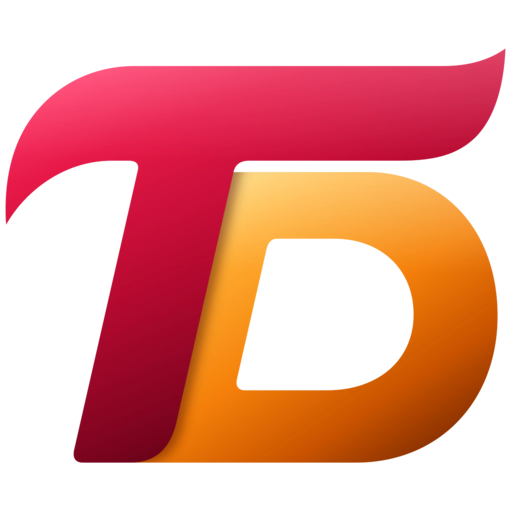
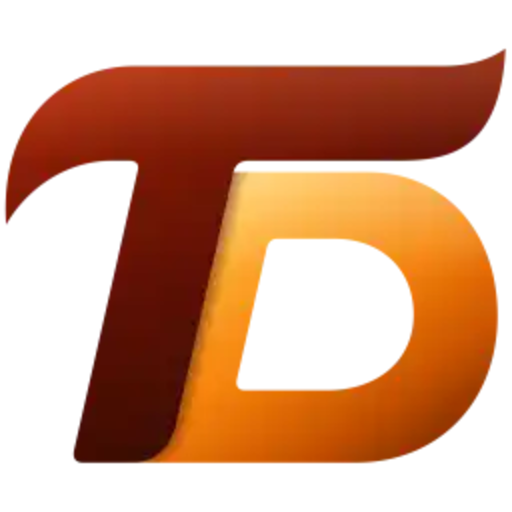
Changes

diff --git a/src/routes/index.tsx b/src/routes/index.tsx
@@ -7,7 +7,7 @@ import { PRICING_PLANS } from "@/lib/pricing";
 import { PlanCard } from "@/components/plan-card";
 import { SectionHeading } from "@/components/section-heading";
 import { Github } from "lucide-react";
-import trackdubLogo from "@/assets/trackdub-logo.png.asset.json";
+import trackdubLogo from "@/assets/trackdub-logo.webp.asset.json";
 const trackdubIcon = trackdubLogo.url;
 import { CompanyAttribution, CompanyReturnBar } from "@/components/company-identity";
 
@@ -1005,7 +1005,12 @@ function Masthead() {
           className="flex shrink-0 items-center gap-3 font-serif text-2xl leading-none tracking-tight text-foreground sm:text-[38px]"
           aria-label="Trackdub home"
         >
-          <img src={trackdubIcon} alt="" className="h-9 w-9 object-contain sm:h-12 sm:w-12" />
+          <img
+            src={trackdubIcon}
+            alt=""
+            aria-hidden="true"
+            className="h-9 w-auto shrink-0 -translate-y-px sm:h-11"
+          />
           <span>
             Trackdub<span className="text-accent">.</span>
           </span>
@@ -4041,7 +4046,12 @@ function Colophon() {
               className="flex items-center gap-3 font-serif text-3xl leading-none text-foreground"
               aria-label="Trackdub home"
             >
-              <img src={trackdubIcon} alt="" className="h-10 w-10 object-contain" />
+                <img
+                  src={trackdubIcon}
+                  alt=""
+                  aria-hidden="true"
+                  className="h-9 w-auto shrink-0 -translate-y-px"
+                />
               <span>
                 Trackdub<span className="text-accent">.</span>
               </span>
